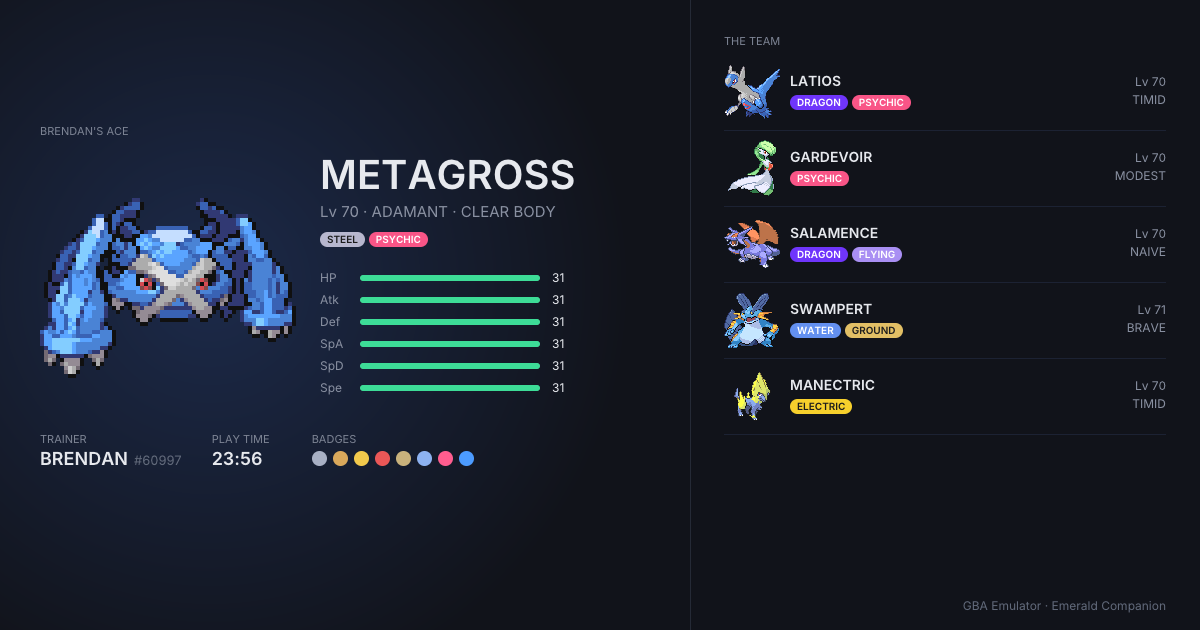
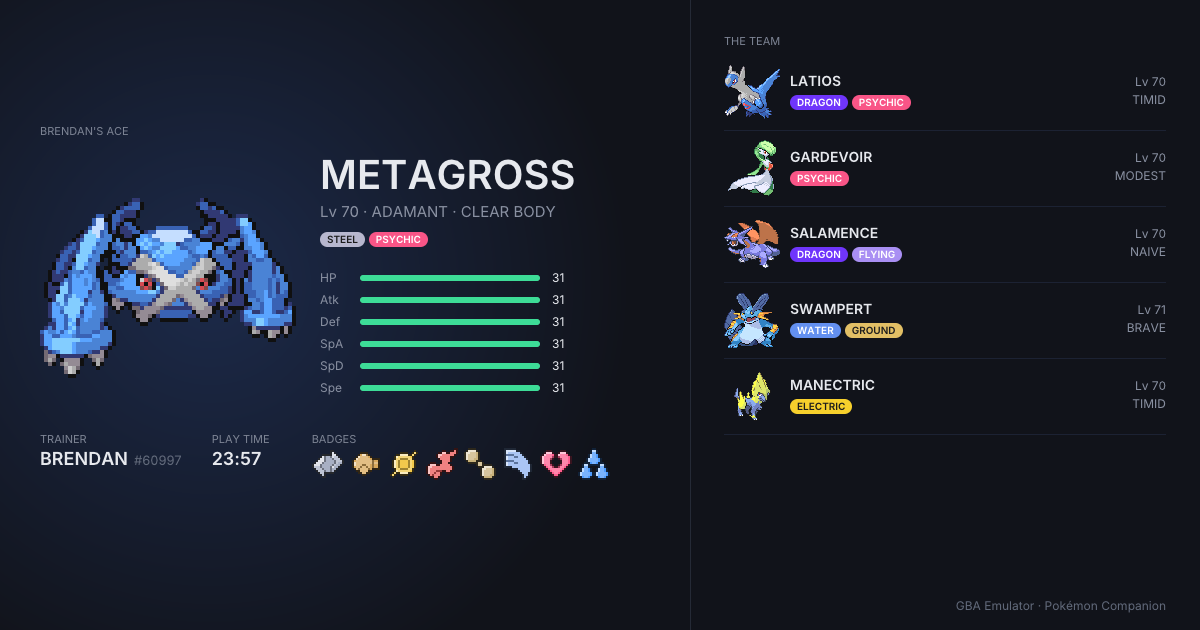
feat: real badge art on the trainer card
Both card styles drew a coloured dot per badge. They now use the same ROM
badge art as the Run page, at 16 or 32 px so the 1x card keeps whole
pixels, with the dots kept as the fallback when the art can't be read.
The doc screenshots are refreshed to match.

Changed region(s): [[0.2467, 0.6937, 0.5242, 0.754], [0.8017, 0.9349, 0.8942, 0.9651]]

diff --git a/src/frontend/trainer_card_draw.c b/src/frontend/trainer_card_draw.c
@@ -78,10 +78,16 @@ static void draw_pic(UiCanvas* c, float x, float y, float size, const uint32_t p
     else placeholder(c, x, y, size);
 }
 
-static void badge_row(UiCanvas* c, float x, float y, const TrainerCardData* d, float size) {
+/* Badges centred on a row at cy: the ROM art when there is some (size 16 or 32 keeps the 1x card's
+ * pixels whole), else coloured dots. */
+static void badge_row(UiCanvas* c, float x, float cy, const TrainerCardData* d, float size,
+                      const BadgeArt* art) {
+    float y = cy - size / 2;
     for (int i = 0; i < 8; i++) {
         float bx = x + (float)i * (size + 6.0f);
-        if (d->badges & (1u << i))
+        if (art && art->ok)
+            badge_draw(c, bx, y, size, art->px[i], (GameRegion)d->region, i, (d->badges & (1u << i)) != 0);
+        else if (d->badges & (1u << i))
             ui_fill_round_rect(c, (UiRect){bx, y, size, size}, size / 2, badge_color(d->region, i));
         else
             ui_ring(c, bx + size / 2, y + size / 2, size / 2 - 1.0f, 2.0f, UI_DIVIDER);
@@ -134,7 +140,7 @@ static void stat_block(UiCanvas* c, float right, float* x_out, const char* label
 /* ---- Team grid ---- */
 
 static void draw_grid(UiCanvas* c, const TrainerCardData* d, const uint32_t pics[6][MON_PIC_PIXELS],
-                      const bool pic_ok[6]) {
+                      const bool pic_ok[6], const BadgeArt* art) {
     ui_canvas_clear(c, UI_BG);
     char buf[96];
 
@@ -146,8 +152,9 @@ static void draw_grid(UiCanvas* c, const TrainerCardData* d, const uint32_t pics
 
     float right = (float)CARD_W - 40.0f, x;
     ui_text(c, UI_FONT_REGULAR, 11.0f, right, 56.0f, 0, UI_ALIGN_RIGHT, UI_DIM, "BADGES");
-    badge_row(c, right - badge_row_width(18.0f), 82.0f, d, 18.0f);
-    right -= badge_row_width(18.0f) + 34.0f;
+    float bs = art && art->ok ? 32.0f : 18.0f;
+    badge_row(c, right - badge_row_width(bs), 91.0f, d, bs, art);
+    right -= badge_row_width(bs) + 34.0f;
     snprintf(buf, sizeof buf, "%u", (unsigned)d->dex_owned);
     stat_block(c, right, &x, "POKEDEX", buf);
     right = x - 34.0f;
@@ -213,7 +220,7 @@ static void glow(UiCanvas* c, float cx, float cy, float radius) {
 }
 
 static void draw_ace(UiCanvas* c, const TrainerCardData* d, const uint32_t pics[6][MON_PIC_PIXELS],
-                     const bool pic_ok[6], int ace) {
+                     const bool pic_ok[6], int ace, const BadgeArt* art) {
     ui_canvas_clear(c, UI_BG);
     const GamePartyMon* a = &d->party[ace];
     char buf[96];
@@ -253,7 +260,12 @@ static void draw_ace(UiCanvas* c, const TrainerCardData* d, const uint32_t pics[
     float pw = ui_text(c, UI_FONT_SEMIBOLD, 18.0f, x, by + 16.0f, 0, UI_ALIGN_LEFT, UI_TEXT, buf);
     x += (pw > 70.0f ? pw : 70.0f) + 30.0f;
     ui_text(c, UI_FONT_REGULAR, 11.0f, x, by, 0, UI_ALIGN_LEFT, UI_DIM, "BADGES");
-    badge_row(c, x, by + 19.0f, d, 15.0f);
+    if (art && art->ok) {
+        float bs = x + badge_row_width(32.0f) <= LEFT_W - 34.0f ? 32.0f : 16.0f;
+        badge_row(c, x, by + 32.0f, d, bs, art);
+    } else {
+        badge_row(c, x, by + 26.5f, d, 15.0f, art);
+    }
 
     /* Right column */
     ui_fill_rect(c, (UiRect){LEFT_W, 0.0f, 1.0f, (float)CARD_H}, UI_DIVIDER);
@@ -283,9 +295,9 @@ static void draw_ace(UiCanvas* c, const TrainerCardData* d, const uint32_t pics[
 }
 
 void trainer_card_draw(UiCanvas* c, const TrainerCardData* d, const uint32_t pics[6][MON_PIC_PIXELS],
-                       const bool pic_ok[6], CardStyle style, int ace) {
-    if (style == CARD_STYLE_ACE && slot_ok(d, ace) && !d->party[ace].egg) draw_ace(c, d, pics, pic_ok, ace);
-    else draw_grid(c, d, pics, pic_ok);
+                       const bool pic_ok[6], CardStyle style, int ace, const BadgeArt* art) {
+    if (style == CARD_STYLE_ACE && slot_ok(d, ace) && !d->party[ace].egg) draw_ace(c, d, pics, pic_ok, ace, art);
+    else draw_grid(c, d, pics, pic_ok, art);
 }
 
 bool trainer_card_save(const GameState* gs, const GameMem* m, const TrainerCardData* d,
@@ -301,7 +313,7 @@ bool trainer_card_save(const GameState* gs, const GameMem* m, const TrainerCardD
     }
     UiCanvas c;
     ui_canvas_init(&c, px, CARD_W, CARD_H, 1.0f);
-    trainer_card_draw(&c, d, (const uint32_t(*)[MON_PIC_PIXELS])pics, ok, style, ace);
+    trainer_card_draw(&c, d, (const uint32_t(*)[MON_PIC_PIXELS])pics, ok, style, ace, &gs->badge_art);
     bool r = screenshot_save_argb(px, CARD_W, CARD_H, path);
     free(px);
     free(pics);

diff --git a/tests/test_trainer_card_draw.c b/tests/test_trainer_card_draw.c
@@ -73,7 +73,7 @@ TEST(card_draw_smoke_both_styles) {
     for (int style = 0; style < 2; style++) {
         memset(s_px, 0, sizeof s_px);
         ui_canvas_init(&c, s_px, CARD_W, CARD_H, 1.0f);
-        trainer_card_draw(&c, &d, (const uint32_t(*)[MON_PIC_PIXELS])s_pics, ok, (CardStyle)style, 0);
+        trainer_card_draw(&c, &d, (const uint32_t(*)[MON_PIC_PIXELS])s_pics, ok, (CardStyle)style, 0, NULL);
         ASSERT_EQ_HEX(s_px[5 * CARD_W + CARD_W - 5], UI_BG);
         ASSERT_TRUE(has_color(0xFFFF0000u));
     }
@@ -83,8 +83,8 @@ TEST(card_draw_smoke_both_styles) {
     for (int style = 0; style < 2; style++) {
         memset(s_px, 0, sizeof s_px);
         ui_canvas_init(&c, s_px, CARD_W, CARD_H, 1.0f);
-        trainer_card_draw(&c, &d, (const uint32_t(*)[MON_PIC_PIXELS])s_pics, ok, (CardStyle)style, 0);
-        trainer_card_draw(&c, &d, (const uint32_t(*)[MON_PIC_PIXELS])s_pics, ok, (CardStyle)style, -1);
+        trainer_card_draw(&c, &d, (const uint32_t(*)[MON_PIC_PIXELS])s_pics, ok, (CardStyle)style, 0, NULL);
+        trainer_card_draw(&c, &d, (const uint32_t(*)[MON_PIC_PIXELS])s_pics, ok, (CardStyle)style, -1, NULL);
     }
 }
 
@@ -98,13 +98,44 @@ TEST(card_badge_colors_follow_the_region) {
     UiCanvas c;
     memset(s_px, 0, sizeof s_px);
     ui_canvas_init(&c, s_px, CARD_W, CARD_H, 1.0f);
-    trainer_card_draw(&c, &d, (const uint32_t(*)[MON_PIC_PIXELS])s_pics, ok, CARD_STYLE_GRID, -1);
+    trainer_card_draw(&c, &d, (const uint32_t(*)[MON_PIC_PIXELS])s_pics, ok, CARD_STYLE_GRID, -1, NULL);
     ASSERT_TRUE(!has_color(0xFF4C9BFFu));
     d.region = GAME_REGION_KANTO;
     memset(s_px, 0, sizeof s_px);
     ui_canvas_init(&c, s_px, CARD_W, CARD_H, 1.0f);
-    trainer_card_draw(&c, &d, (const uint32_t(*)[MON_PIC_PIXELS])s_pics, ok, CARD_STYLE_GRID, -1);
+    trainer_card_draw(&c, &d, (const uint32_t(*)[MON_PIC_PIXELS])s_pics, ok, CARD_STYLE_GRID, -1, NULL);
     ASSERT_TRUE(has_color(0xFF4C9BFFu));
+}
+
+static int count_color(uint32_t argb) {
+    int n = 0;
+    for (int i = 0; i < CARD_W * CARD_H; i++) n += s_px[i] == argb;
+    return n;
+}
+
+/* With ROM art each badge is a whole 32x32 square (a dot is 18 px across), missing ones a silhouette. */
+TEST(card_badges_use_rom_art) {
+    static TrainerCardData d;
+    static BadgeArt art;
+    memset(&d, 0, sizeof d);
+    strcpy(d.name, "RED");
+    d.region = GAME_REGION_KANTO;
+    d.badges = 0x02;
+    d.count = 1;
+    d.party[0].present = true;
+    strcpy(d.party[0].species, "CHARIZARD");
+    memset(&art, 0, sizeof art);
+    art.ok = true;
+    memset(art.px, 3, sizeof art.px);
+    bool ok[6] = {true, false, false, false, false, false};
+    UiCanvas c;
+    for (int style = 0; style < 2; style++) {
+        memset(s_px, 0, sizeof s_px);
+        ui_canvas_init(&c, s_px, CARD_W, CARD_H, 1.0f);
+        trainer_card_draw(&c, &d, (const uint32_t(*)[MON_PIC_PIXELS])s_pics, ok, (CardStyle)style, 0, &art);
+        ASSERT_EQ(count_color(0xFF4C9BFFu), 32 * 32);
+        ASSERT_EQ(count_color(0xFF2E3442u), 7 * 32 * 32);
+    }
 }
 
 /* R9: Cmd+C (copy), Ctrl/Alt chords and key repeat never export. */
@@ -127,5 +158,6 @@ void run_trainer_card_draw_tests(void) {
     RUN_TEST(card_display_name);
     RUN_TEST(card_draw_smoke_both_styles);
     RUN_TEST(card_badge_colors_follow_the_region);
+    RUN_TEST(card_badges_use_rom_art);
     RUN_TEST(card_key_request);
 }

diff --git a/tests/test_badge_draw.c b/tests/test_badge_draw.c
@@ -51,7 +51,7 @@ TEST(badge_draw_tint_and_missing) {
     make_px(px);
     UiCanvas c;
     canvas(&c, 1.0f);   /* k = 2, 32 px square at (0,0) when the box is at 0,0 */
-    badge_draw(&c, 0, 0, px, GAME_REGION_HOENN, 1, true);
+    badge_draw(&c, 0, 0, 32.0f, px, GAME_REGION_HOENN, 1, true);
     /* badge 1 base 0xD9A85B; ROM pixel (x,0) covers device (2x..2x+1, 0..1) */
     ASSERT_EQ_HEX(s_px[0 * W + 0], BG);   /* index 0 untouched */
     ASSERT_EQ_HEX(s_px[0 * W + 6], 0xFFD9A85Bu);   /* index 3 is the base colour */
@@ -63,7 +63,7 @@ TEST(badge_draw_tint_and_missing) {
     ASSERT_EQ_HEX(s_px[3 * W + 30], 0xFF302514u);
 
     canvas(&c, 1.0f);
-    badge_draw(&c, 0, 0, px, GAME_REGION_HOENN, 1, false);
+    badge_draw(&c, 0, 0, 32.0f, px, GAME_REGION_HOENN, 1, false);
     ASSERT_EQ_HEX(s_px[0 * W + 6], MISSING);
     ASSERT_EQ_HEX(s_px[0 * W + 0], BG);
 }
@@ -76,7 +76,7 @@ TEST(badge_draw_square_size_follows_scale) {
     for (int s = 0; s < 5; s++) {
         UiCanvas c;
         canvas(&c, scales[s]);
-        badge_draw(&c, 20, 20, px, GAME_REGION_HOENN, 0, true);
+        badge_draw(&c, 20, 20, 32.0f, px, GAME_REGION_HOENN, 0, true);
         int x0, y0, x1, y1;
         bounds(&x0, &y0, &x1, &y1);
         ASSERT_EQ(x1 - x0 + 1, 16 * ks[s]);
@@ -93,10 +93,10 @@ TEST(badge_draw_clips) {
     memset(px, 3, 256);
     UiCanvas c;
     canvas(&c, 1.0f);
-    badge_draw(&c, -30, -30, px, GAME_REGION_HOENN, 0, true);
-    badge_draw(&c, 150, 150, px, GAME_REGION_HOENN, 0, true);
+    badge_draw(&c, -30, -30, 32.0f, px, GAME_REGION_HOENN, 0, true);
+    badge_draw(&c, 150, 150, 32.0f, px, GAME_REGION_HOENN, 0, true);
     ui_canvas_clip(&c, (UiRect){50, 50, 10, 10});
-    badge_draw(&c, 40, 40, px, GAME_REGION_HOENN, 0, true);
+    badge_draw(&c, 40, 40, 32.0f, px, GAME_REGION_HOENN, 0, true);
     ASSERT_EQ_HEX(s_px[49 * W + 55], BG);
     ASSERT_EQ_HEX(s_px[55 * W + 55], 0xFFA8B0C4u);
 }
@@ -106,7 +106,7 @@ TEST(badge_draw_rainbow_is_coloured) {
     memset(px, 3, 256);
     UiCanvas c;
     canvas(&c, 1.0f);
-    badge_draw(&c, 0, 0, px, GAME_REGION_KANTO, 3, true);
+    badge_draw(&c, 0, 0, 32.0f, px, GAME_REGION_KANTO, 3, true);
     int hues = 0;
     for (int sy = 0; sy < 16; sy++)
         for (int sx = 0; sx < 16; sx++) {
@@ -119,7 +119,7 @@ TEST(badge_draw_rainbow_is_coloured) {
     ASSERT_TRUE(hues > 250);
     /* the same badge missing stays flat */
     canvas(&c, 1.0f);
-    badge_draw(&c, 0, 0, px, GAME_REGION_KANTO, 3, false);
+    badge_draw(&c, 0, 0, 32.0f, px, GAME_REGION_KANTO, 3, false);
     ASSERT_EQ_HEX(s_px[0], MISSING);
     ASSERT_EQ_HEX(s_px[31 * W + 31], MISSING);
 }

diff --git a/src/frontend/trainer_card_draw.h b/src/frontend/trainer_card_draw.h
@@ -5,6 +5,7 @@
 #include <stddef.h>
 #include <stdint.h>
 #include <time.h>
+#include "game/badge_pic.h"
 #include "game/game.h"
 #include "game/mon_pic.h"
 #include "game/trainer_card.h"
@@ -21,8 +22,9 @@ void trainer_card_path(const char* rom_path, time_t now, char* out, size_t out_s
 /* Nickname, or the species name when the nickname is empty or only '?' and spaces. Eggs give "Egg". */
 const char* trainer_card_display_name(const GamePartyMon* mon);
 /* ace < 0 (or an unusable slot) draws the Team grid whatever the style. */
+/* art NULL (or not ok) draws plain badge dots. */
 void trainer_card_draw(UiCanvas* c, const TrainerCardData* d, const uint32_t pics[6][MON_PIC_PIXELS],
-                       const bool pic_ok[6], CardStyle style, int ace);
+                       const bool pic_ok[6], CardStyle style, int ace, const BadgeArt* art);
 /* C with no Ctrl/Cmd/Alt and not a repeat; Shift picks the Ace style. Returns 0 for no card,
  * else 1 + CardStyle. */
 uint8_t trainer_card_key_request(int32_t scancode, uint16_t mod, bool repeat);

diff --git a/src/frontend/badge_draw.c b/src/frontend/badge_draw.c
@@ -1,7 +1,6 @@
 #include "frontend/badge_draw.h"
 #include <math.h>
 
-#define BADGE_BOX     32.0f
 #define MISSING_COLOR 0xFF2E3442u
 #define KANTO_RAINBOW 3
 
@@ -49,12 +48,13 @@ static uint32_t rainbow_base(int x, int y) {
     return 0xFF000000u | r << 16 | g << 8 | b;
 }
 
-void badge_draw(UiCanvas* c, float x, float y, const uint8_t px[256], GameRegion r, int i, bool have) {
-    int k = (int)(2.0f * c->scale + 0.25f);
+void badge_draw(UiCanvas* c, float x, float y, float box, const uint8_t px[256], GameRegion r, int i,
+                bool have) {
+    int k = (int)(box / 16.0f * c->scale + 0.25f);
     if (k < 1) k = 1;
     int side = 16 * k;
-    int ox = ui_px(c, x + BADGE_BOX / 2) - side / 2;
-    int oy = ui_px(c, y + BADGE_BOX / 2) - side / 2;
+    int ox = ui_px(c, x + box / 2) - side / 2;
+    int oy = ui_px(c, y + box / 2) - side / 2;
     bool rainbow = have && r == GAME_REGION_KANTO && i == KANTO_RAINBOW;
     uint32_t base = badge_color(r, i);
     for (int sy = 0; sy < 16; sy++)

diff --git a/src/frontend/badge_draw.h b/src/frontend/badge_draw.h
@@ -9,9 +9,10 @@
 /* Presentation colour of gym badge i (0..7, FLAG_BADGE01..08 order) as 0xAARRGGBB. */
 uint32_t badge_color(GameRegion r, int i);
 
-/* Draws one badge from its 16x16 palette-index pixels, centred on the 32 pt box at (x, y).
+/* Draws one badge from its 16x16 palette-index pixels, centred on the box pt square at (x, y).
  * Earned badges are tinted in the badge's colour, missing ones are a flat dark silhouette.
  * Each ROM pixel is a whole number of device pixels so it stays crisp at any density. */
-void badge_draw(UiCanvas* c, float x, float y, const uint8_t px[256], GameRegion r, int i, bool have);
+void badge_draw(UiCanvas* c, float x, float y, float box, const uint8_t px[256], GameRegion r, int i,
+                bool have);
 
 #endif // BADGE_DRAW_H

diff --git a/src/frontend/run_panel.c b/src/frontend/run_panel.c
@@ -129,7 +129,7 @@ static void badge_cell(UiCanvas* c, float x, float w, const RunView* v, int b, c
     ui_fill_round_rect(c, (UiRect){x, BADGE_Y, w, BADGE_H}, UI_RADIUS, UI_SURFACE);
     float cx = x + w / 2;
     if (art && art->ok) {
-        badge_draw(c, cx - 16.0f, BADGE_Y + 6.0f, art->px[b], region, b, have);
+        badge_draw(c, cx - 16.0f, BADGE_Y + 6.0f, 32.0f, art->px[b], region, b, have);
     } else {
         float cy = BADGE_Y + 22.0f;
         if (have) ui_fill_round_rect(c, (UiRect){cx - 6.0f, cy - 6.0f, 12.0f, 12.0f}, 6.0f, UI_MID);

diff --git a/docs/pokemon-companion.md b/docs/pokemon-companion.md
@@ -114,8 +114,8 @@ Steps here are the steps the game counts. Walking and biking count. Steps on ice
 
 Press `C` to save a picture of your team as a PNG, ready to share. It works with the panel open or closed, and while the game is paused. The file goes next to the ROM as `<rom>.YYYYMMDD-HHMMSS.card.png`, the same way F12 screenshots do. If you bind `C` to a GBA button, the key is ignored.
 
-- **Team grid (`C`).** Your trainer name, ID, play time, Pokedex count and badges across the top, then all six Pokemon with level, types, nature, held item and IVs.
-- **Ace showcase (`Shift+C`).** One Pokemon large on the left with its nature, ability, types and IV bars, and the rest of the team listed on the right.
+- **Team grid (`C`).** Your trainer name, ID, play time, Pokedex count and badges across the top, then all six Pokemon with level, types, nature, held item and IVs. The badges are the real badge art from your ROM, in colour once earned and a dark outline until then.
+- **Ace showcase (`Shift+C`).** One Pokemon large on the left with its nature, ability, types and IV bars, your name, play time and badges below it, and the rest of the team listed on the right.
 
 The ace is the selected row when the panel is on the Party page. Otherwise it is the MVP of your Run log, if one is attached and that Pokemon is in your party, and failing that your first Pokemon that isn't an egg.
 
